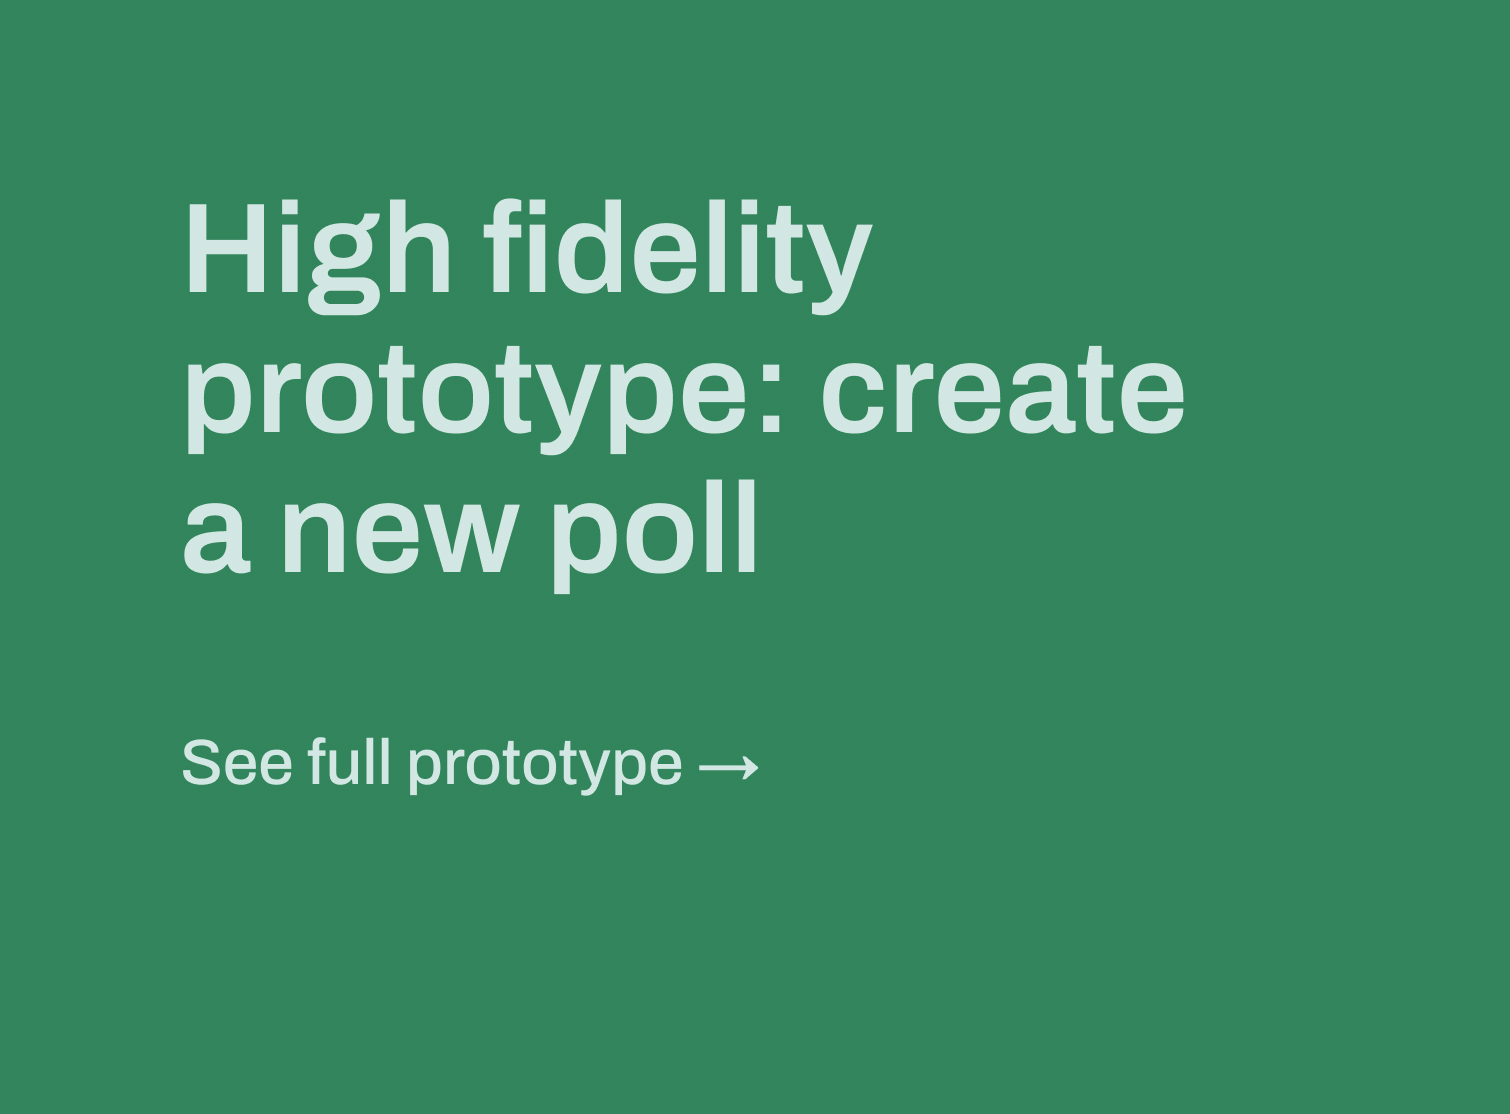
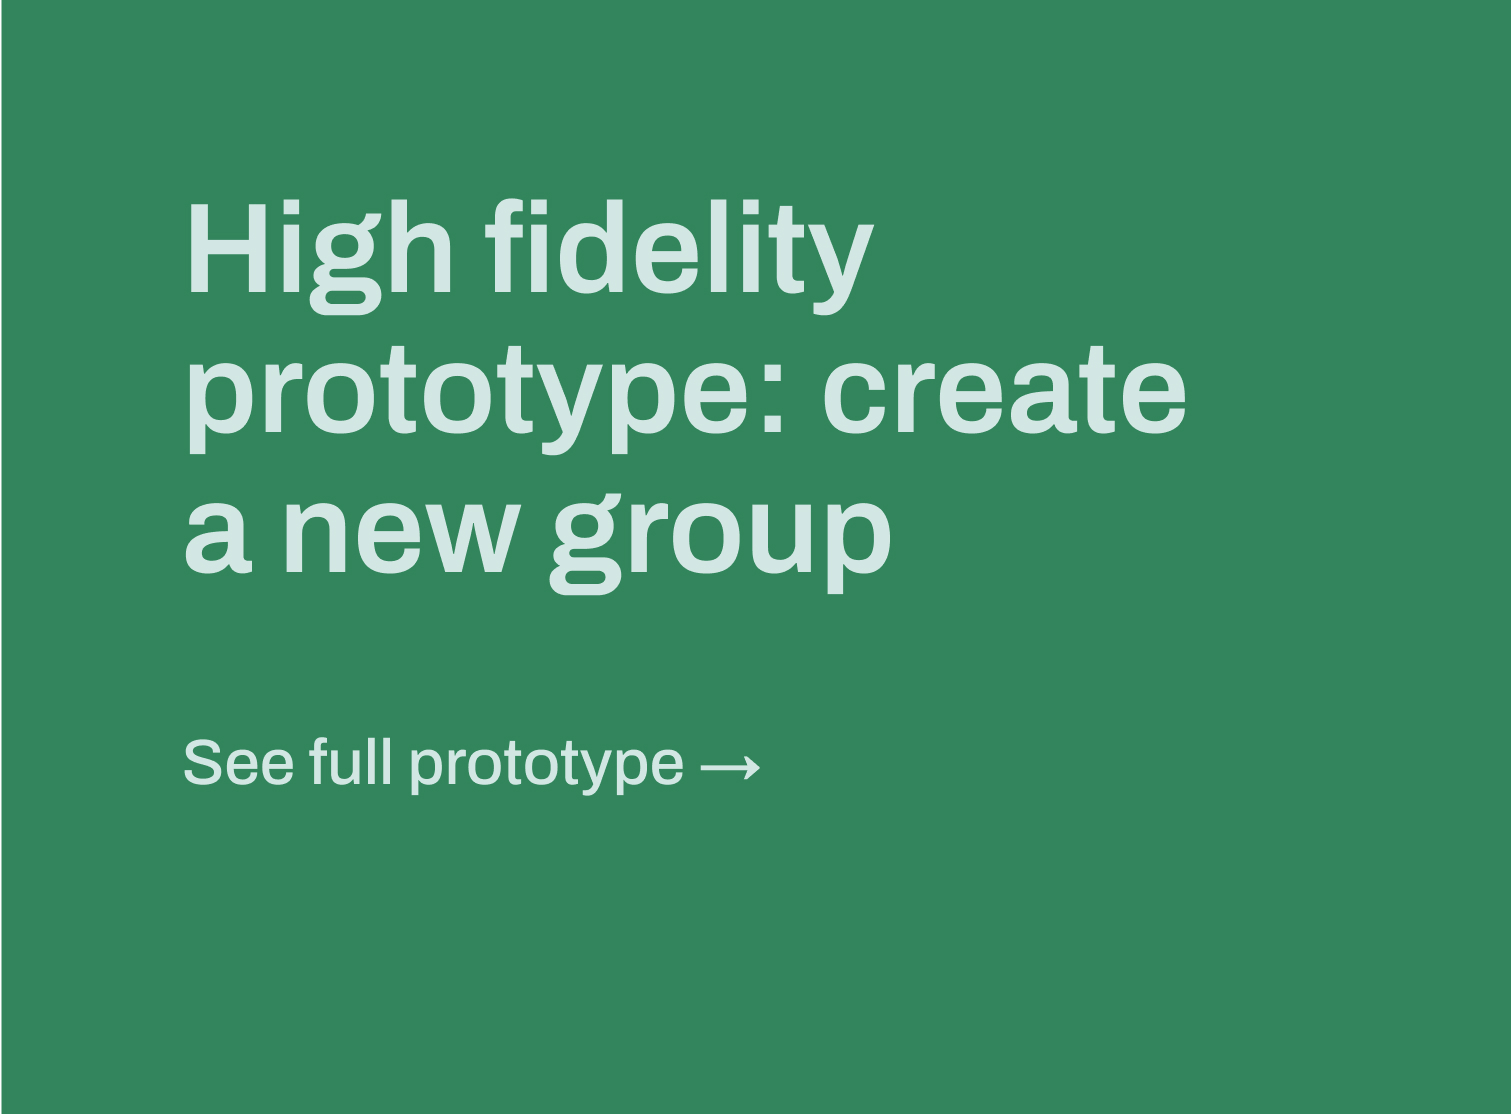
Update images

diff --git a/projects/piggy/piggy-2.html b/projects/piggy/piggy-2.html
@@ -22,7 +22,7 @@
   <div class = "piggy sage centered element-a">
     <img data-src="/images/piggy/new-group-final.gif" style = "width: 50%;" class="contain"/>
 </div>
-<div class = "piggy matcha element-b">
+<div class = "piggy matcha element-b no-pad">
   <a href = "https://www.figma.com/proto/QmiAslOYups3e10LcmkvCg/piggy?page-id=1043%3A32196&node-id=1043-32213&node-type=frame&viewport=-788%2C-1200%2C0.22&t=cpru23o1L9kz4ZmH-1&scaling=scale-down&content-scaling=fixed&starting-point-node-id=1043%3A32213&show-proto-sidebar=1">
   <img data-src="/images/piggy/13B.jpg " class="contain"/></a>
 </div>
